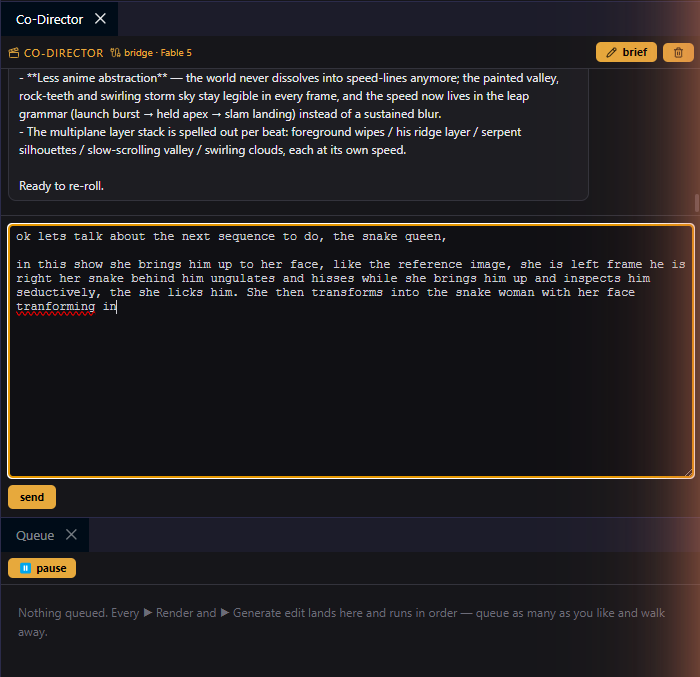
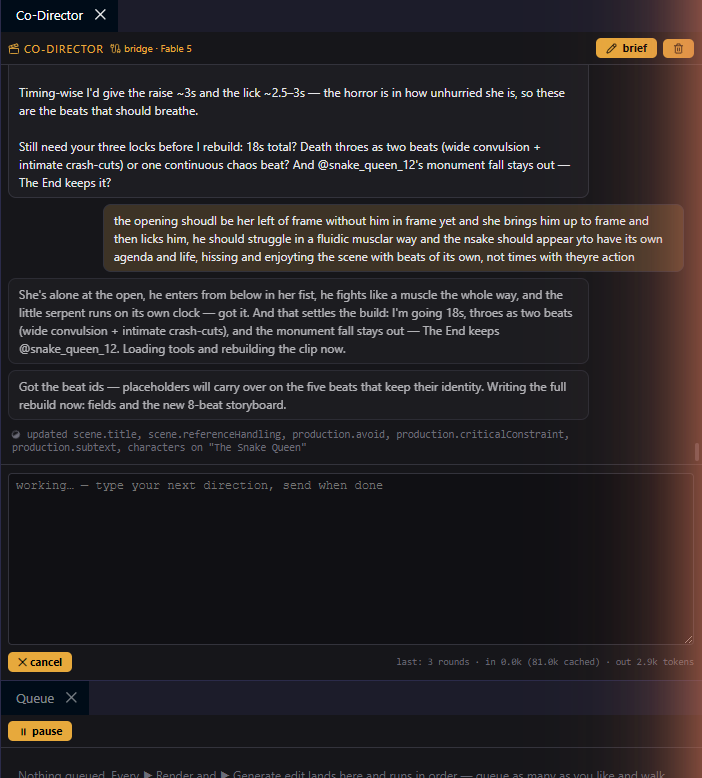
Replace all artboard images with current-UI screenshots; fresh Co-Director shot
hero, Library, Bin, Clip Gen, Image Editor and shortcuts now show the real
v0.5.0 UI (docs/img); Co-Director re-shot with the live bridge session.

diff --git a/README.md b/README.md
@@ -2,7 +2,7 @@
 # Video Dancer
 ### The dream offline AI video editor.
 
-<img width="1018" height="680" alt="Artboard-2-100" src="https://github.com/user-attachments/assets/df66f1d5-3a3d-46fb-b661-c1a749f94baf" />
+![Video Dancer](docs/img/hero.png)
 
 
 An offline editor for AI video, built around the best possible workflow. The goal is to cut the number of generations you need by giving you granular control over your inputs. You block your shots out on a timeline as a storyboard, then turn that storyboard straight into video. And when a render is *almost* right, you don't re-roll it — you edit it with words (vid2vid) and keep every version.
@@ -27,7 +27,7 @@ documentation. Everything below is in it, from install to export.
 
 ## Library
 
-<img width="1016" height="682" alt="Artboard-4-100" src="https://github.com/user-attachments/assets/a309e378-3579-4665-b8af-bf0584596d08" />
+![the Library](docs/img/library.png)
 
 
 Every project gets its own image and music library. @-mention an image and it flows into your prompt and the upload queue at the same time.
@@ -49,7 +49,7 @@ Every project gets its own image and music library. @-mention an image and it fl
 
 ## Bin
 
-<img width="1020" height="680" alt="Artboard-5-100" src="https://github.com/user-attachments/assets/368f36d9-022b-459b-9b57-889855bc0bc1" />
+![the Bin](docs/img/bin.png)
 
 Your clips and timelines, laid out as tiles. Drag a clip onto a timeline, double-click to edit, right-click for everything else.
 
@@ -123,7 +123,7 @@ Grab any frame straight to your Library. This is how you continue a shot: feed o
 
 ## Clip Gen (the model interface)
 
-<img width="1020" height="685" alt="Artboard-8-100" src="https://github.com/user-attachments/assets/c799a771-2a0e-407c-bb4a-4e0064c111de" />
+![Clip Gen](docs/img/clipgen.png)
 
 
 Open a single clip to build and generate it. Set the model, mode, and output, write the prompt, attach references, and render. Everything about making one shot lives here: its prompt and beats, the model it runs on, and every take it produces.
@@ -308,7 +308,7 @@ Two monitors, like a proper NLE. The Program Monitor plays the assembled timelin
 
 ## Image Editor
 
-<img width="1016" height="679" alt="Artboard-9-100" src="https://github.com/user-attachments/assets/ec2772f8-a458-40af-ac96-269fe1c3fe2e" />
+![Image Editor](docs/img/imageeditor.png)
 
 
 A node-tree image editor with its own results history. Generate, branch, tag the keepers back to your Library, and set a primary that every clip follows.
@@ -388,7 +388,7 @@ Keys are encrypted at rest with your OS keychain and never leave your machine.
 
 ## Keyboard shortcuts
 
-<img width="1016" height="680" alt="Artboard-7-100" src="https://github.com/user-attachments/assets/d08b0d5a-682a-45a0-9a1d-483e487dc4d3" />
+![shortcuts & gestures](docs/img/cheatsheet.png)
 
 
 The shortcuts you'd expect from an NLE, and they stay out of your way while you're typing.
